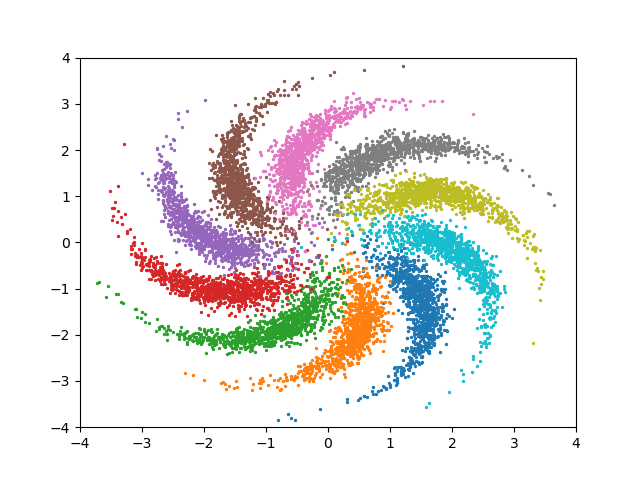
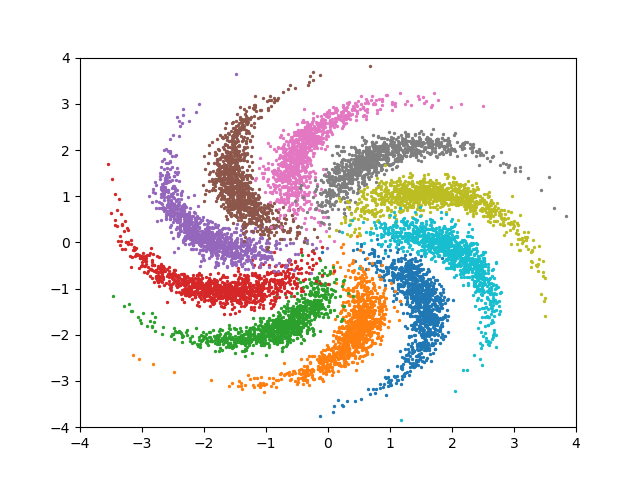
Add files via upload

diff --git a/data/toy_data/toy_dataset.py b/data/toy_data/toy_dataset.py
@@ -22,7 +22,8 @@ def generate(mhp, data_fn, ndim, num_classes):
     seq[:, 0] = event_times
     for i, data_i in enumerate(np.split(data, num_classes, axis=0)):
         seq[:, 1:ndim + 1] = seq[:, 1:ndim + 1] + data_i * (i == classes)[:, None]
-        seq[:, ndim + 1:ndim + 2] = i+1
+        seq[(i == classes), ndim + 1:ndim + 2] = i+1
+    print(f'seq[:, ndim + 1:ndim + 2] is {seq[:, -1]}')
     return seq
 
 
@@ -74,13 +75,14 @@ def process_data_pinwheel(event_num, num_classes):
     with temporary_seed(13579):
         data_fn = partial(pinwheel, num_classes=num_classes)
         data_set = generate(mhp, data_fn, ndim=2, num_classes=num_classes)
+    print(data_set[:,-1])
     mean = np.mean(data_set[:, 1:4], axis=0)
     std = np.std(data_set[:, 1:4], axis=0)
     time_diff.append(data_set[0,0])
     for i in range(data_set.shape[0] - 1):
         time_diff.append(data_set[i + 1,0] - data_set[i,0])
     time_diff = np.array(time_diff)[:, np.newaxis].astype(np.float32)
-    for range_ in range(50000):
+    for range_ in range(10000):
         start = range_ * 2
         seq_name = f'{range_}'
         df_ = data_set[start:start + event_num,:]
